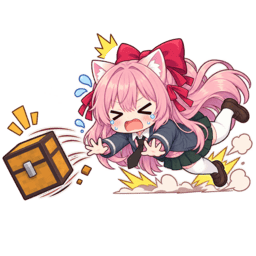
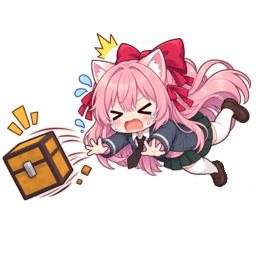
feat: 适配作者近期更新的翻译文本
1.翻译文案完善
2.调整一张插画的显示表现

Changed region(s): [[0.4375, 0.5, 1.0, 0.7812]]

diff --git a/src/com/fireflytornado/mcupdate/javafx/UpstreamText.java b/src/com/fireflytornado/mcupdate/javafx/UpstreamText.java
@@ -1,0 +1,171 @@
+package com.fireflytornado.mcupdate.javafx;
+
+import com.zack88604.autoupdater.gui.api.UpdateErrorCode;
+
+import java.util.Map;
+
+/** Localizes controller-owned text shown outside the verbatim Details log. */
+final class UpstreamText {
+
+    private static final String UPDATE_ERROR_PREFIX = "Update error: ";
+    private static final String SKIP_ERROR_PREFIX =
+            "Unable to skip the update safely; Minecraft will not start: ";
+
+    private static final Map<String, String> EXACT_STATUS_KEYS = Map.ofEntries(
+            Map.entry("Preparing update...", "status.preparing"),
+            Map.entry("Checking for updates...", "status.preparing"),
+            Map.entry("Cleaning up…", "status.cleaning"),
+            Map.entry("Verifying updated resources before caching...",
+                    "upstream.status.verifyingUpdated"),
+            Map.entry("Verifying cached resources...", "upstream.status.verifyingCached"),
+            Map.entry("Verifying local files against cached manifest...",
+                    "upstream.status.verifyingLocal"),
+            Map.entry("Downloading agent update...", "status.updater.updating"),
+            Map.entry("Update failed", "status.error.failed"),
+            Map.entry("Already up to date, launching Minecraft...", "status.success.current")
+    );
+
+    private static final Map<String, String> EXACT_DESCRIPTION_KEYS = Map.of(
+            "Removing files that are no longer needed", "status.cleaning.description",
+            "Minecraft starts only when the signed cache matches local files",
+                    "upstream.description.signedCacheRequired"
+    );
+
+    private static final Map<String, String> EXACT_ERROR_KEYS = Map.ofEntries(
+            Map.entry("Cannot parse manifest", "upstream.error.manifest.parse"),
+            Map.entry("No Ed25519 manifest public key is configured",
+                    "upstream.error.manifest.noKey"),
+            Map.entry("Update server returned an unsupported signed manifest",
+                    "upstream.error.manifest.unsupported"),
+            Map.entry("Update server returned an incomplete signed manifest",
+                    "upstream.error.manifest.incomplete"),
+            Map.entry("Signed manifest key id does not match the configured key id",
+                    "upstream.error.manifest.keyMismatch"),
+            Map.entry("Signed manifest payload has an invalid size",
+                    "upstream.error.manifest.invalidSize"),
+            Map.entry("Signed manifest signature is invalid",
+                    "upstream.error.manifest.invalidSignature"),
+            Map.entry("Ed25519 verification requires Java 15 or later",
+                    "upstream.error.manifest.javaTooOld"),
+            Map.entry("Configured Ed25519 manifest public key is invalid; Java 15 or later is required",
+                    "upstream.error.manifest.invalidKey"),
+            Map.entry("Signed manifest has an unsupported claims format",
+                    "upstream.error.manifest.unsupportedClaims"),
+            Map.entry("Signed manifest is expired or has invalid timestamps",
+                    "upstream.error.manifest.expired"),
+            Map.entry("Signed manifest claims are incomplete",
+                    "upstream.error.manifest.incompleteClaims"),
+            Map.entry("Signed manifest content hash is invalid",
+                    "upstream.error.manifest.invalidContentHash"),
+            Map.entry("Invalid signed manifest payload",
+                    "upstream.error.manifest.invalidPayloadEncoding"),
+            Map.entry("Invalid signed manifest signature",
+                    "upstream.error.manifest.invalidSignatureEncoding"),
+            Map.entry("Cannot hash signed manifest", "upstream.error.manifest.hash"),
+            Map.entry("Cached signed manifest does not contain a file list",
+                    "upstream.error.cache.noFileList"),
+            Map.entry("Cannot cache an incomplete signed manifest",
+                    "upstream.error.cache.incomplete"),
+            Map.entry("Unable to create updater cache directory",
+                    "upstream.error.cache.createDirectory"),
+            Map.entry("No verified signed manifest cache is available; complete an update first",
+                    "upstream.error.cache.unavailable"),
+            Map.entry("Signed manifest cache is too large", "upstream.error.cache.tooLarge"),
+            Map.entry("Signed manifest cache has an unsupported format",
+                    "upstream.error.cache.unsupported"),
+            Map.entry("Signed manifest cache belongs to different update servers",
+                    "upstream.error.cache.wrongServer"),
+            Map.entry("All servers unreachable", "upstream.error.network.allUnreachable")
+    );
+
+    private UpstreamText() {
+    }
+
+    static String status(String value) {
+        if (value == null || value.isEmpty()) {
+            return value;
+        }
+        String exactKey = EXACT_STATUS_KEYS.get(value);
+        if (exactKey != null) {
+            return Lang.text(exactKey);
+        }
+        if (value.startsWith("Downloading: ")) {
+            return Lang.text("upstream.status.downloading", value.substring("Downloading: ".length()));
+        }
+        if (value.startsWith("Updated ") && value.endsWith(" file(s), launching Minecraft...")) {
+            String count = between(value, "Updated ", " file(s), launching Minecraft...");
+            return Lang.text("upstream.status.updated", count);
+        }
+        return null;
+    }
+
+    static String description(String value) {
+        if (value == null || value.isEmpty()) {
+            return value;
+        }
+        String exactKey = EXACT_DESCRIPTION_KEYS.get(value);
+        return exactKey == null ? null : Lang.text(exactKey);
+    }
+
+    static String error(String value, UpdateErrorCode errorCode) {
+        if (value == null || value.isEmpty()) {
+            return value;
+        }
+        if (value.startsWith(UPDATE_ERROR_PREFIX)) {
+            return Lang.text("upstream.error.update",
+                    cause(value.substring(UPDATE_ERROR_PREFIX.length()), errorCode));
+        }
+        if (value.startsWith(SKIP_ERROR_PREFIX)) {
+            return Lang.text("upstream.error.skip",
+                    cause(value.substring(SKIP_ERROR_PREFIX.length()), errorCode));
+        }
+        return cause(value, errorCode);
+    }
+
+    private static String cause(String value, UpdateErrorCode errorCode) {
+        String exactKey = EXACT_ERROR_KEYS.get(value);
+        if (exactKey != null) {
+            return Lang.text(exactKey);
+        }
+        String localized = prefix(value,
+                "Cached manifest resource is missing or has an invalid size: ",
+                "upstream.error.cache.resourceMissing");
+        if (localized != null) return localized;
+        localized = prefix(value, "Cached manifest resource hash does not match: ",
+                "upstream.error.cache.resourceHash");
+        if (localized != null) return localized;
+        localized = prefix(value, "Signed manifest cache is missing ",
+                "upstream.error.cache.missingField");
+        if (localized != null) return localized;
+        localized = prefix(value, "Invalid cached ", "upstream.error.cache.invalidField");
+        if (localized != null) return localized;
+        localized = prefix(value, "Cannot roll back non-file target: ",
+                "upstream.error.filesystem.rollbackTarget");
+        if (localized != null) return localized;
+        localized = prefix(value, "Unable to recreate directory: ",
+                "upstream.error.filesystem.recreateDirectory");
+        if (localized != null) return localized;
+
+        if (errorCode == UpdateErrorCode.NETWORK) {
+            return Lang.text("upstream.error.network.generic");
+        }
+        if (errorCode == UpdateErrorCode.FILESYSTEM) {
+            return Lang.text("upstream.error.filesystem.generic");
+        }
+        if (errorCode == UpdateErrorCode.MANIFEST_AUTHENTICATION) {
+            return Lang.text("upstream.error.manifest.generic");
+        }
+        if (errorCode == UpdateErrorCode.CONFIGURATION) {
+            return Lang.text("upstream.error.configuration.generic");
+        }
+        return Lang.text("upstream.error.unknown");
+    }
+
+    private static String prefix(String value, String prefix, String key) {
+        return value.startsWith(prefix) ? Lang.text(key, value.substring(prefix.length())) : null;
+    }
+
+    private static String between(String value, String prefix, String suffix) {
+        return value.substring(prefix.length(), value.length() - suffix.length());
+    }
+}

diff --git a/src/com/fireflytornado/mcupdate/javafx/JavaFxUpdateView.java b/src/com/fireflytornado/mcupdate/javafx/JavaFxUpdateView.java
@@ -487,12 +487,16 @@ final class JavaFxUpdateView implements UpdateView {
                 }
                 if (counts != null) {
                     lblStatus.setText(Lang.text("status.checking"));
-                    lblDescription.setText(Lang.text("status.checking.description",
-                            formatCount(counts[0]), formatCount(counts[1])));
+                    String countKey = state.getStatus().startsWith("Rejected unsafe path:")
+                            ? "status.checking.rejectedDescription"
+                            : "status.checking.description";
+                    lblDescription.setText(Lang.text(countKey, formatCount(counts[0]),
+                            formatCount(counts[1])));
                 } else {
-                    lblStatus.setText(displayOrDefault(state.getStatus(),
+                    lblStatus.setText(displayOrDefault(UpstreamText.status(state.getStatus()),
                             Lang.text("status.checking")));
-                    lblDescription.setText(displayOrDefault(state.getDescription(), ""));
+                    lblDescription.setText(displayOrDefault(
+                            UpstreamText.description(state.getDescription()), ""));
                 }
                 break;
             }
@@ -512,10 +516,9 @@ final class JavaFxUpdateView implements UpdateView {
             }
             case CLEANING:
                 lblStatus.setText(Lang.text("status.cleaning"));
-                lblDescription.setText(state.getDescription() == null
-                        || state.getDescription().isEmpty()
-                        ? Lang.text("status.cleaning.description")
-                        : state.getDescription());
+                lblDescription.setText(displayOrDefault(
+                        UpstreamText.description(state.getDescription()),
+                        Lang.text("status.cleaning.description")));
                 break;
             case SUCCESS: {
                 UpdateSummary s = state.getSummary();
@@ -539,8 +542,7 @@ final class JavaFxUpdateView implements UpdateView {
                         ? Lang.text("status.error.skipUnsafe")
                         : Lang.text("status.error.failed"));
                 if (em != null && !em.isEmpty()) {
-                    // Controller-owned diagnostic text stays in its original language.
-                    lblDescription.setText(em);
+                    lblDescription.setText(UpstreamText.error(em, state.getErrorCode()));
                 } else if (s != null && s.getFailedFiles() > 0) {
                     lblDescription.setText(Lang.text("status.error.failedFiles",
                             formatFiles(s.getFailedFiles())));
@@ -1502,8 +1504,9 @@ final class JavaFxUpdateView implements UpdateView {
         Label header = new Label(Lang.text("recovery.title"));
         header.getStyleClass().add("dialog-header");
         alert.getDialogPane().setHeader(header);
-        String upstreamError = displayOrDefault(state.getErrorMessage(),
-                Lang.text("recovery.defaultError"));
+        String upstreamError = state.getErrorMessage() == null || state.getErrorMessage().isEmpty()
+                ? Lang.text("recovery.defaultError")
+                : UpstreamText.error(state.getErrorMessage(), state.getErrorCode());
         alert.getDialogPane().setContent(dialogContentWithIllustration(
                 dialogMessage(Lang.text("recovery.message", upstreamError)), IMG_POPUP));
 

diff --git a/README_CN.md b/README_CN.md
@@ -35,7 +35,7 @@ OpenJFX 依赖缓存在本项目的 `lib/javafx/`；缺失时会自动从 Maven 
 最终发布产物保留在：
 
 ```text
-dist/fireflytornado-javafx-preset-1.0.1-win.jar
+dist/fireflytornado-javafx-preset-1.1.1-win.jar
 ```
 
 ## 安装

diff --git a/README.md b/README.md
@@ -41,7 +41,7 @@ the build script before they are compiled or packaged.
 The final release artifact is written to:
 
 ```text
-dist/fireflytornado-javafx-preset-1.0.1-win.jar
+dist/fireflytornado-javafx-preset-1.1.1-win.jar
 ```
 
 ## Installation
